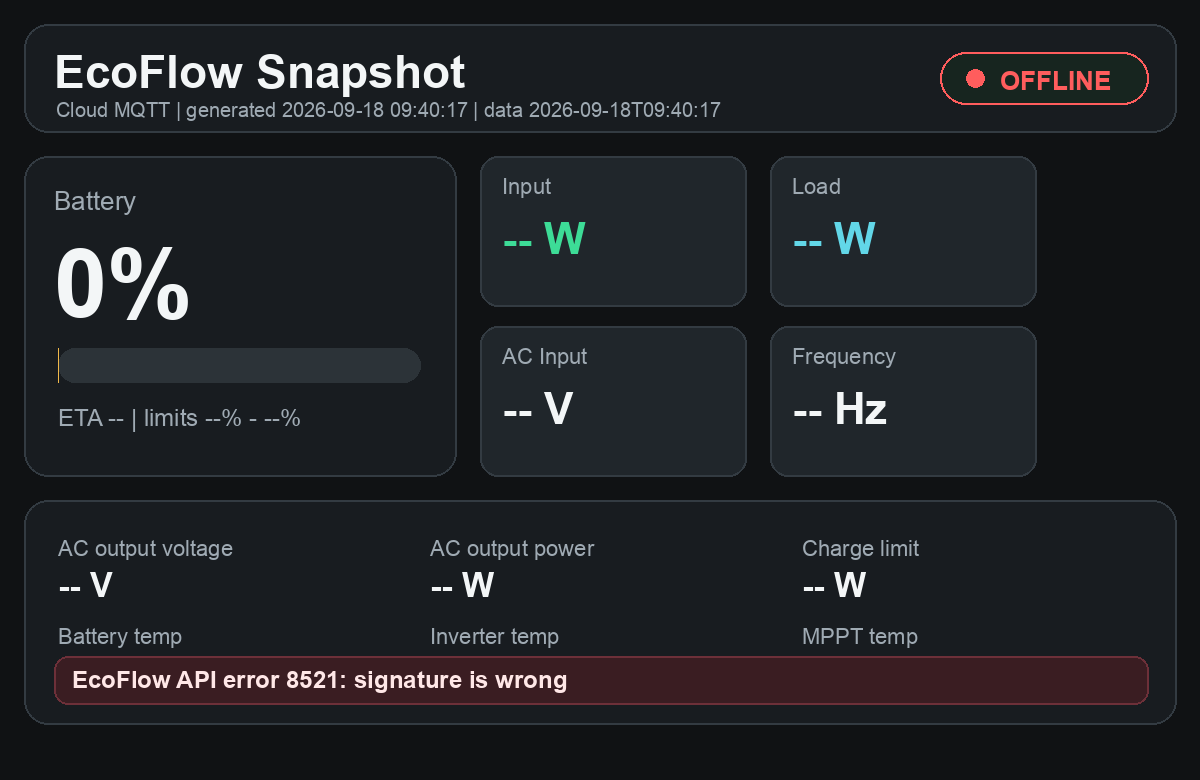
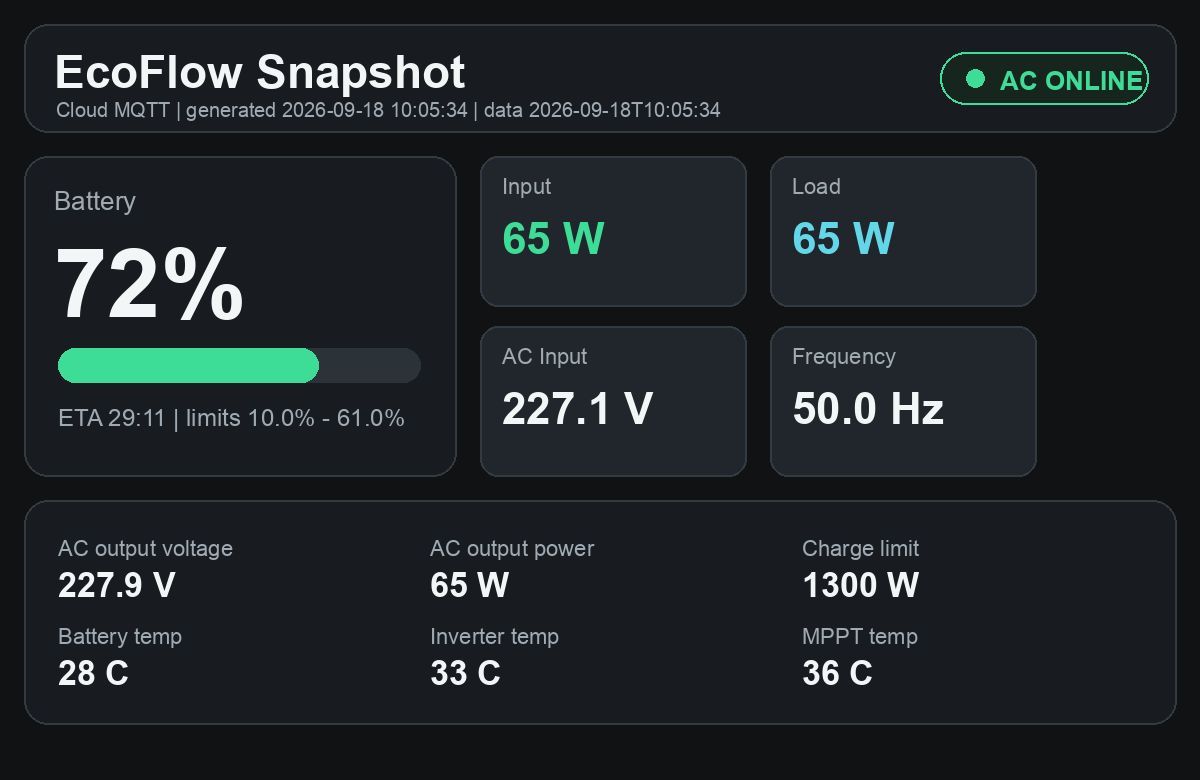
Update EcoFlow dashboard 2026-09-18 10:05:35

diff --git a/index.html b/index.html
@@ -75,7 +75,7 @@
       overflow: hidden;
       margin-top: 14px;
     }
-    .fill { width: 0%; height: 100%; background: linear-gradient(90deg, var(--green), var(--cyan)); }
+    .fill { width: 72%; height: 100%; background: linear-gradient(90deg, var(--green), var(--cyan)); }
     .cards {
       display: grid;
       grid-template-columns: repeat(4, minmax(0, 1fr));
@@ -177,34 +177,34 @@
   <header>
     <div>
       <h1>EcoFlow Snapshot</h1>
-      <div class="sub">Cloud MQTT · generated 2026-09-18T09:40:17 · data 2026-09-18T09:40:17</div>
+      <div class="sub">Cloud MQTT · generated 2026-09-18T10:05:34 · data 2026-09-18T10:05:34</div>
     </div>
-    <div class="status offline"><span class="dot"></span><span>Offline</span></div>
+    <div class="status online"><span class="dot"></span><span>AC online</span></div>
   </header>
 
-  <div class='error'>EcoFlow API error 8521: signature is wrong</div>
+  
 
   <div class="grid">
     <section>
       <h2>Battery</h2>
-      <div class="value">0%</div>
+      <div class="value">72%</div>
       <div class="battery"><div class="fill"></div></div>
-      <div class="row"><span>ETA</span><span>--</span></div>
-      <div class="row"><span>SOC limits</span><span>--% - --%</span></div>
+      <div class="row"><span>ETA</span><span>29:11</span></div>
+      <div class="row"><span>SOC limits</span><span>10.0% - 61.0%</span></div>
     </section>
     <section>
       <h2>AC</h2>
-      <div class="row"><span>Input voltage</span><span>-- V</span></div>
-      <div class="row"><span>Input frequency</span><span>-- Hz</span></div>
-      <div class="row"><span>Output voltage</span><span>-- V</span></div>
+      <div class="row"><span>Input voltage</span><span>227.1 V</span></div>
+      <div class="row"><span>Input frequency</span><span>50.0 Hz</span></div>
+      <div class="row"><span>Output voltage</span><span>227.9 V</span></div>
     </section>
   </div>
 
   <div class="cards">
-    <div class="card"><span class="label">Input</span><span class="value">-- W</span></div>
-    <div class="card"><span class="label">Load</span><span class="value">-- W</span></div>
-    <div class="card"><span class="label">Battery temp</span><span class="value">--°C</span></div>
-    <div class="card"><span class="label">Inverter temp</span><span class="value">--°C</span></div>
+    <div class="card"><span class="label">Input</span><span class="value">65 W</span></div>
+    <div class="card"><span class="label">Load</span><span class="value">65 W</span></div>
+    <div class="card"><span class="label">Battery temp</span><span class="value">28°C</span></div>
+    <div class="card"><span class="label">Inverter temp</span><span class="value">33°C</span></div>
   </div>
 
   
@@ -217,7 +217,7 @@
         <div class="daily-item"><span class="label">Зарядний ліміт</span><strong>1300 W</strong><small>пік входу 1344 W · 103% ліміту</small></div>
         <div class="daily-item"><span class="label">Заряджання</span><strong>3 хв</strong><small>останнє 17.09 21:28</small></div>
         <div class="daily-item"><span class="label">Розряджання</span><strong>0 сек</strong><small>--</small></div>
-        <div class="daily-item"><span class="label">Енергія вхід / вихід</span><strong>148 Wh / 83 Wh</strong><small>оцінка за sample-ами</small></div>
+        <div class="daily-item"><span class="label">Енергія вхід / вихід</span><strong>151 Wh / 86 Wh</strong><small>оцінка за sample-ами</small></div>
         <div class="daily-item"><span class="label">Частота min / max</span><strong>50.0 Hz / 50.0 Hz</strong><small>17.09 10:25 / 17.09 10:25</small></div>
       </div>
     </section>
@@ -238,10 +238,33 @@
   <details>
     <summary>Snapshot JSON</summary>
     <pre>{
-  &quot;ok&quot;: false,
+  &quot;ok&quot;: true,
   &quot;source&quot;: &quot;Cloud MQTT&quot;,
-  &quot;timestamp&quot;: &quot;2026-09-18T09:40:17&quot;,
-  &quot;error&quot;: &quot;EcoFlow API error 8521: signature is wrong&quot;,
+  &quot;device&quot;: &quot;DELTA Pro&quot;,
+  &quot;timestamp&quot;: &quot;2026-09-18T10:05:34&quot;,
+  &quot;grid&quot;: true,
+  &quot;battery&quot;: {
+    &quot;soc&quot;: 72,
+    &quot;min&quot;: 10.0,
+    &quot;max&quot;: 61.0,
+    &quot;eta&quot;: &quot;29:11&quot;
+  },
+  &quot;power&quot;: {
+    &quot;in&quot;: 65,
+    &quot;out&quot;: 65,
+    &quot;acOut&quot;: 65,
+    &quot;chargeLimit&quot;: 1300
+  },
+  &quot;ac&quot;: {
+    &quot;inputVoltage&quot;: 227.055,
+    &quot;inputFreq&quot;: 50.0,
+    &quot;outputVoltage&quot;: 227.857
+  },
+  &quot;temps&quot;: {
+    &quot;battery&quot;: 28,
+    &quot;inverter&quot;: 33,
+    &quot;mppt&quot;: 36
+  },
   &quot;history&quot;: [
     {
       &quot;ts&quot;: &quot;2026-09-14T11:26:16&quot;,
@@ -284,16 +307,16 @@
   ],
   &quot;telemetry&quot;: {
     &quot;window&quot;: &quot;24h&quot;,
-    &quot;sample_count&quot;: 26,
+    &quot;sample_count&quot;: 27,
     &quot;from&quot;: &quot;2026-09-17T10:25:44&quot;,
-    &quot;to&quot;: &quot;2026-09-18T07:54:55&quot;,
+    &quot;to&quot;: &quot;2026-09-18T10:05:34&quot;,
     &quot;latest&quot;: {
       &quot;mode&quot;: &quot;idle&quot;,
       &quot;grid&quot;: true,
-      &quot;soc&quot;: 73.0,
-      &quot;ac_v&quot;: 225.142,
-      &quot;in_w&quot;: 59.0,
-      &quot;out_w&quot;: 59.0,
+      &quot;soc&quot;: 72.0,
+      &quot;ac_v&quot;: 227.055,
+      &quot;in_w&quot;: 65.0,
+      &quot;out_w&quot;: 65.0,
       &quot;charge_limit_w&quot;: 1300.0
     },
     &quot;voltage&quot;: {
@@ -339,16 +362,16 @@
       },
       &quot;charge_limit_w&quot;: 1300.0,
       &quot;max_input_pct_of_current_limit&quot;: 103,
-      &quot;input_wh_est&quot;: 147.9,
-      &quot;load_wh_est&quot;: 83.0
+      &quot;input_wh_est&quot;: 150.9,
+      &quot;load_wh_est&quot;: 85.9
     },
     &quot;modes&quot;: {
       &quot;charging_sec&quot;: 180,
       &quot;discharging_sec&quot;: 0,
-      &quot;idle_sec&quot;: 3732,
+      &quot;idle_sec&quot;: 3912,
       &quot;charging&quot;: &quot;3 хв&quot;,
       &quot;discharging&quot;: &quot;0 сек&quot;,
-      &quot;idle&quot;: &quot;1 год 02 хв&quot;,
+      &quot;idle&quot;: &quot;1 год 05 хв&quot;,
       &quot;last_charging&quot;: {
         &quot;ts&quot;: &quot;2026-09-17T21:28:46&quot;,
         &quot;grid&quot;: true,
